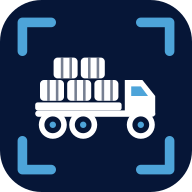
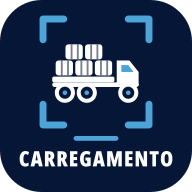
Ícone do app com o nome embaixo do visor (v1.4.5)
Claude-Session: https://claude.ai/code/session_01Bjf9Eyaf2dKr3WrvPdAx1b

diff --git a/index.html b/index.html
@@ -186,7 +186,7 @@ body.mvon{overflow:hidden}
 // e devolve as cargas (leituras + fotos) em arquivo.
 // A comunicação direta com o ERP (API) entra depois, no lugar do arquivo.
 // ======================================================================
-const VER="1.4.4";
+const VER="1.4.5";
 // esconde o teclado virtual (Chrome/Android: VirtualKeyboard API) sem tirar o foco do campo
 const kbHide=()=>{try{if(semTeclado()&&navigator.virtualKeyboard)navigator.virtualKeyboard.hide()}catch(e){}};
 // leitura sem teclado na tela (padrão): o campo oculto recebe o foco como "somente leitura" (o Android não abre o teclado)

diff --git a/sw.js b/sw.js
@@ -1,5 +1,5 @@
 // Service worker: deixa o app disponível sem internet
-const CACHE="carregamento-v30";
+const CACHE="carregamento-v31";
 const SHELL=["./","./index.html","./manifest.webmanifest","./icon-192.png","./icon-512.png","./icon-180.png","./logo.png","./icon-maskable-192.png","./icon-maskable-512.png"];
 const EXT=[];
 self.addEventListener("install",e=>{e.waitUntil((async()=>{const c=await caches.open(CACHE);await c.addAll(SHELL);
